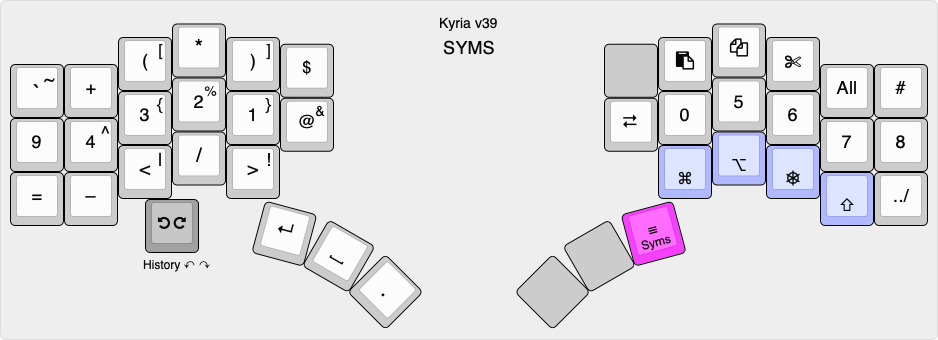
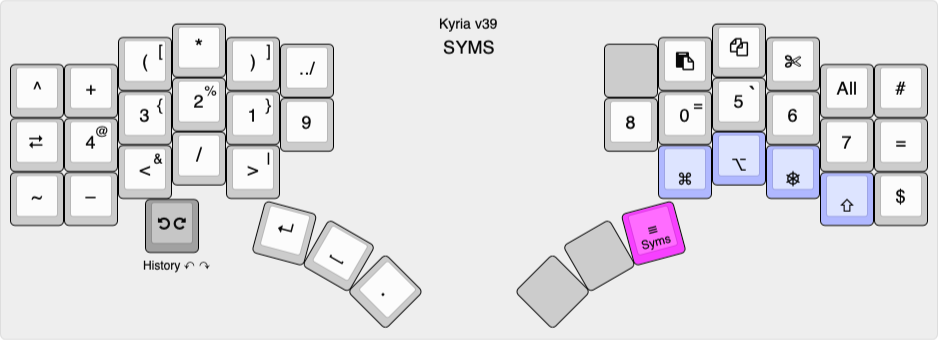
Improvements to SYMS layer

diff --git a/kyria-rsthd-prime/keymap.c b/kyria-rsthd-prime/keymap.c
@@ -61,30 +61,31 @@ const uint16_t PROGMEM keymaps[][MATRIX_ROWS][MATRIX_COLS] = {
 /* SYMS
 
  ,-----------------------------------------.                        ,-----------------------------------------.
- | `  ~ |   +  | (  [ |   *  | )  ] |   $  |                        |      | Paste| Copy |  Cut |  All |   #  |
+ |   ^  |   +  | (  [ |   *  | )  ] |  ../ |                        |      | Paste| Copy |  Cut |  All |   #  |
  |------+------+------+------+------+------|                        |------+------+------+------+------+------|
- | 9    | 4  ^ | 3  { | 2  % | 1  } | @  & |                        |  Tab | 0    | 5    | 6    | 7    | 8    |
+ |  Tab | 4  @ | 3  { | 2  % | 1  } |   9  |                        |   8  | 0  = | 5  ` |   6  |   7  |   =  |
  |------+------+------+------+------+------'                        `------+------+------+------+------+------|
- |   =  |   -  | <  | |   /  | >  ! |                                      |      |      |      |      |  ../ |
+ |   ~  |   -  | <  & |   /  | >  | |                                      |      |      |      |      |   $  |
  |      |      |      |      |      |                                      |  Cmd |  Alt | Ctrl | Shift|      |
  `----------------------------------'                                      `----------------------------------'
- .
+
  .                 ,------.      ,--------------------.  ,--------------------.
  .                 |      |      | Enter| Space|   .  |  |      |      |      |
  .                 |      |      |      |      |      |  |      |      | (**) |
  .                 `------'      `--------------------'  `--------------------'
+
 */
 
     [SYMS] = KEY_LAYOUT_stack(
         /* Left hand */
-        KC_GRV,      KC_PLUS,       CU_LPRN,  KC_ASTR,       CU_RPRN,  KC_DLR,
-        CU_9,        CU_4,          CU_3,     CU_2,          CU_1,     CU_AT_AMP,
-        CU_EQL_EQL,  CU_MINS_MINS,  CU_LT,    CU_SLSH_SLSH,  CU_GT,
+        KC_CIRC,  KC_PLUS,       CU_LPRN,  KC_ASTR,       CU_RPRN,  CU_DIRUP,
+        KC_TAB,   CU_4,          CU_3,     CU_2,          CU_1,     CU_9,
+        KC_TILD,  CU_MINS_MINS,  CU_LT,    CU_SLSH_SLSH,  CU_GT,
 
         /* Right hand */
                   ___X___,  SC_PASTE,  SC_COPY,  SC_CUT,   SC_SELECT_ALL,  KC_HASH,
-                  KC_TAB,   CU_0,      CU_5,     CU_6,     CU_7,           CU_8,
-                            KC_RGUI,   KC_RALT,  KC_RCTL,  CU_SHIFT,       CU_DIRUP,
+                  CU_8,     CU_0,      CU_5,     CU_6,     CU_7,           CU_EQL_EQL,
+                            KC_RGUI,   KC_RALT,  KC_RCTL,  CU_SHIFT,       KC_DLR,
 
         /* Thumbs */
         CU_ENT_ENT, CU_SPC_SPC, CU_DOT_DOT,   ___X___, ___X___, _______,
@@ -92,6 +93,7 @@ const uint16_t PROGMEM keymaps[][MATRIX_ROWS][MATRIX_COLS] = {
         /* Encoder button */
         ___X___
     ),
+
 
 /* EDIT
  

diff --git a/common/shift_defs.h b/common/shift_defs.h
@@ -23,12 +23,12 @@
 
 // Numbers with custom punctuation
 //
-DEFINE_SHIFT( CU_0, KC_0, KC_0 )
+DEFINE_SHIFT( CU_0, KC_0, KC_EQL )
 DEFINE_SHIFT( CU_1, KC_1, KC_RCBR )
 DEFINE_SHIFT( CU_2, KC_2, KC_PERC )
 DEFINE_SHIFT( CU_3, KC_3, KC_LCBR )
-DEFINE_SHIFT( CU_4, KC_4, KC_CIRC )
-DEFINE_SHIFT( CU_5, KC_5, KC_5 )
+DEFINE_SHIFT( CU_4, KC_4, KC_AT )
+DEFINE_SHIFT( CU_5, KC_5, KC_GRV )
 DEFINE_SHIFT( CU_6, KC_6, KC_6 )
 DEFINE_SHIFT( CU_7, KC_7, KC_7 )
 DEFINE_SHIFT( CU_8, KC_8, KC_8 )
@@ -42,9 +42,8 @@ DEFINE_SHIFT( CU_BSPC_DEL,     KC_BSPC, KC_DEL )
 // Custom punctuation pairs on syms layer
 DEFINE_SHIFT( CU_LPRN,   KC_LPRN, KC_LBRC )
 DEFINE_SHIFT( CU_RPRN,   KC_RPRN, KC_RBRC )
-DEFINE_SHIFT( CU_LT,     KC_LABK, KC_PIPE )
-DEFINE_SHIFT( CU_GT,     KC_RABK, KC_EXLM )
-DEFINE_SHIFT( CU_AT_AMP, KC_AT,   KC_AMPR )
+DEFINE_SHIFT( CU_LT,     KC_LABK, KC_AMPR )
+DEFINE_SHIFT( CU_GT,     KC_RABK, KC_PIPE )
 
 // Keys that are the same whether shifted or not
 DEFINE_SHIFT( CU_DOT_DOT,    KC_DOT,  KC_DOT )
@@ -53,7 +52,6 @@ DEFINE_SHIFT( CU_ENT_ENT,    KC_ENT,  KC_ENT )
 DEFINE_SHIFT( CU_TAB_TAB,    KC_TAB,  KC_TAB )
 DEFINE_SHIFT( CU_MINS_MINS,  KC_MINS, KC_MINS )
 DEFINE_SHIFT( CU_EQL_EQL,    KC_EQL,  KC_EQL )
-DEFINE_SHIFT( CU_GRV_GRV,    KC_GRV, KC_GRV )
 DEFINE_SHIFT( CU_SLSH_SLSH,  KC_SLSH, KC_SLSH )
 DEFINE_SHIFT( CU_QUOT_QUOT,  KC_QUOT, KC_QUOT )
 

diff --git a/common/combo_defs.h b/common/combo_defs.h
@@ -1,4 +1,3 @@
-
 /* Copyright 2020-2023 @frogm0uth
  *
  * This program is free software: you can redistribute it and/or modify
@@ -58,7 +57,7 @@
 LtoR_STR( rm,  KC_C, KC_M )
 
 LtoR_STR( sc, KC_S, KC_G )
-LtoR_STR( sp, KC_P, KC_G )
+LtoR_STR( sp, KC_D, KC_T )
 LtoR_STR( f,  KC_D, KC_H )
 
 RtoL_STR( hr, KC_D, KC_H )
@@ -84,7 +83,7 @@ RtoL_STR( you, KC_U, CU_DOT )
 LtoR_STR( k,   KC_W, KC_M )
 LtoR_STR( v,   KC_D, KC_W )
 LtoR_STR( rk,  KC_D, KC_M )
-LtoR_STR( b,   KC_D, KC_T )
+LtoR_STR( b,   KC_P, KC_G )
 LtoR_STR( j,   KC_S, KC_R )
 
 // Common word endings, right hand
@@ -134,6 +133,5 @@ LtoR_LIT( r_php, "?>",    CU_SLSH_SLSH, CU_GT)
 _ONSHIFT( l_php )  // only trigger if shift is down
 _ONSHIFT( r_php )
 
-LtoR_LIT( parensemi, ");",    CU_LT, CU_GT )
-_ONSHIFT( parensemi )
-LtoR_LIT( tild_slsh, "~/",    CU_MINS_MINS, CU_SLSH_SLSH)
+LtoR_LIT( parensemi, ");", CU_LT,        CU_GT )   _ONSHIFT( parensemi )
+LtoR_LIT( eql_gt,    "=>", CU_MINS_MINS, CU_GT)    _ONSHIFT( eql_gt )

diff --git a/common/process.c b/common/process.c
@@ -181,6 +181,7 @@ bool process_record_user_emit(uint16_t keycode, keyrecord_t *record) {
              */
         case CU_DIRUP:
             if (record->event.pressed) {
+                clear_mods();
                 tap_code(KC_DOT);
                 tap_code(KC_DOT);
                 tap_code(KC_SLSH);

diff --git a/kyria-rsthd-prime/README.md b/kyria-rsthd-prime/README.md
@@ -29,15 +29,15 @@ This is the keymap for my Kyria keyboard from [splitkb.com](https://splitkb.com)
 
 ## Overview
 
-The alphabetic layout in this keymap was originally based on [RSTHD](https://xsznix.wordpress.com/2016/05/16/introducing-the-rsthd-layout/). I tried it, liked it, tweaked it, and tweaked some more...
+The alphabetic layout in this keymap was *originally* based on [RSTHD](https://xsznix.wordpress.com/2016/05/16/introducing-the-rsthd-layout/). I tried it, liked it, tweaked it, and tweaked some more...
 
-When I originally started making changes to RSTHD, I called it RSTHD'. The `'`, pronounced "prime", is [used in maths](https://en.wikipedia.org/wiki/Prime_(symbol)#Use_in_mathematics,_statistics,_and_science) to indicate a derivative of the named thing. I think the layout still retains its RSTHD DNA despite all the changes. I figure calling it *RSTHD/Prime* acknowledges its origin while still indicating that it's different.
+When I originally started making changes to RSTHD, I called it RSTHD'. The `'`, pronounced "prime", is [used in maths](https://en.wikipedia.org/wiki/Prime_(symbol)#Use_in_mathematics,_statistics,_and_science) to indicate a derivative of the named thing. While the layout is hardly  recognizable as RSTHD any more, I still call it *RSTHD/Prime* to acknowledge its origin.
 
 The code is known to compile for and work on a rev1 Kyria with a 32kB Pro Micro controller and a rev3 Kyria with a Liatris controller. There are some lines at the top of rules.mk that will need to be un/commented accordingly.
 
 See also [Kyria Build Notes](docs/kyria-build-notes.md).
 
-**As of late 2023, I'm not maintaining this documentation very often. It's too much work to be frank. It serves as a general guide, but for actual info please refer to the source. See also the [common](../common/) folder.**
+**As of late 2023, I'm not maintaining this documentation regularly. It's too much work to be frank. It serves as a general guide, but for actual info please refer to the source. See also the [common](../common/) folder.**
 
 ### Goals
 
@@ -53,7 +53,7 @@ Typing speed and reducing the number of keys on the keyboard are not important g
 
 My Kyria uses all 6 columns on each hand. However, the lower inner column keys are absent. There are three thumb keys on each side. The left side has an OLED.
 
-Either side can take an encoder. The screenshots and description below mostly assume it is on the left, but a right-side encoder works, and would usually be used with the "opposite" layer (EDIT instead of SYMS, SNAP instead of FUNC). In practice, I find that I mostly use the encoder for adjusting keyboard lighting; for most other functions it's quicker to just use keys and I could certainly live without it.
+Either side can take an encoder. The screenshots and description below mostly assume it is on the left, but a right-side encoder works, and would usually be used with the "opposite" layer (EDIT instead of SYMS, SNAP instead of FUNC). In practice, I find that I mostly use the encoder for adjusting keyboard lighting, as for most functions it's quicker to just use keys; I could certainly live without it.
 
 ### Features
 
@@ -85,11 +85,11 @@ Layer switching is done with custom code, so that a. shifted and custom keys can
 
 [KLE link](http://www.keyboard-layout-editor.com/#/gists/35bf08ea0f5aec96e33b1234b7dc3d5a)
 
-The alpha layout aims to reduce lateral finger movement on the index finger. In fact, the lower keys of the inner columns have been removed entirely.
+The alpha layout aims to reduce lateral finger movement on the index finger. In fact, the lower keys of the inner columns have now been removed entirely.
 
 An older version of the layout performed very well in an [analyzer](docs/prime-on-the-analyzer.md), with low SFU (same finger utilization) stats and low travel distance. Since then, changes have been made to the layout that nominally give it worse performance, because of the use of [comborolls](docs/comborolls.md).
 
-*Effective use of this layout **requires** comborolls.* For a layout that doesn't, see [Kyria v38](https://github.com/frogm0uth/keyboard-firmware/tree/kyria-v38/kyria-rsthd-prime). 
+*Effective use of this layout **requires** comborolls.* For a layout that doesn't (so much), see [Kyria v38](https://github.com/frogm0uth/keyboard-firmware/tree/kyria-v38/kyria-rsthd-prime). 
 
 These characters can only be accessed with comborolls: J, K and backslash.
 
@@ -116,15 +116,13 @@ Activated by the right thumb.
 
 ![kyria-rsthd-prime-syms](docs/images/kyria-rsthd-prime-syms.png)
 
-[KLE link](http://www.keyboard-layout-editor.com/#/gists/79cdc8e9c4547b0f7eda47791328a3a8)
+[KLE link](http://www.keyboard-layout-editor.com/#/gists/28a80ba78a02f052b21f8f9e520dcbb2)
 
-Numbers and punctuation are combined on one layer. Numbers are along the home row and punctuation is mostly arranged on the left hand. If only one character shown, it is output regardless of Shift.
+Numbers and punctuation are combined on one layer. Numbers are along the home row and punctuation is mostly arranged on the left hand. (If only one character shown, it is output regardless of Shift.)
 
-The punctuation is arranged so that common (for me) two-letter sequences are an inward roll: `{% %} </ /> => -> ()`. Outward rolls include `/= !=`. The characters `-` and `!` are duplicated from the base layer for this reason. Additional sequences such as `/* */ ); ~/` are accessed with comborolls that activate if shift is held.
+The punctuation is arranged so that common (for me) symbol bigrams are an inward roll: `{% %} </ /> ~/ -> ()`. The `=` symbol is on the right hand because it combines with so many other symbols. Additional bigrams such as `/* */ => );` are on comborolls that activate if shift is held. Overall, this layer works much better for me than pre-v38 versions that used a numpad layout.
 
 Cut, copy and paste shortcuts are along the right hand top row.
-
-This layer works much better than pre-v38 versions that used a numpad layout in "Programmer Dvorak" style (numbers accessed with shift).
 
 The encoder is used for history scrubbing.
 
